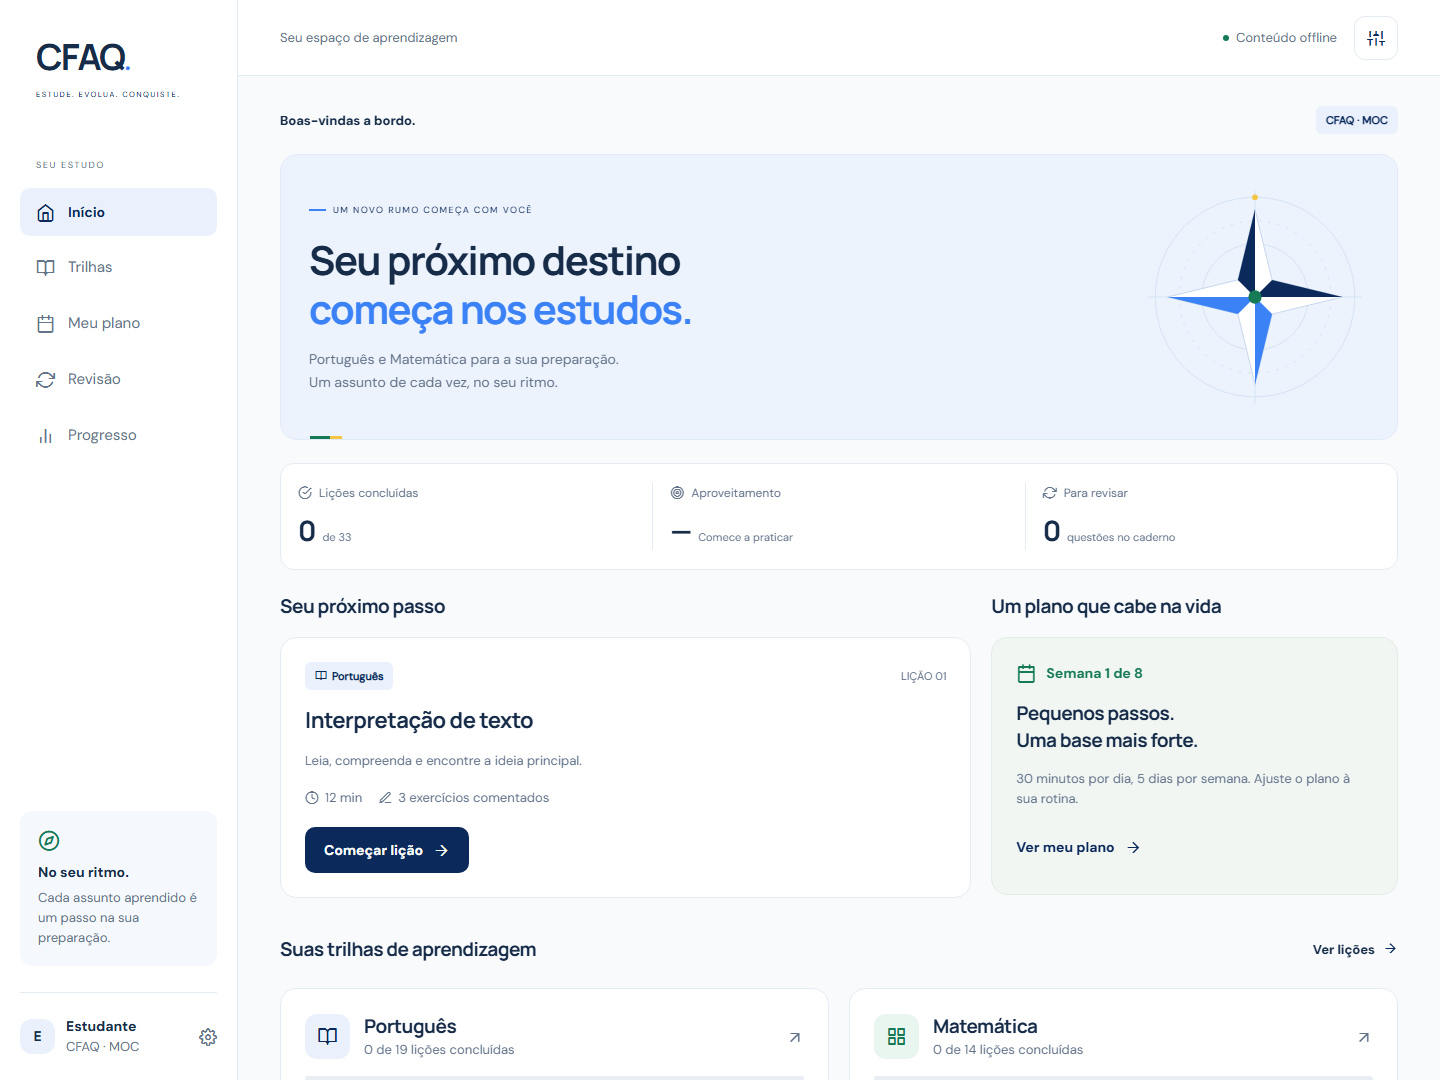
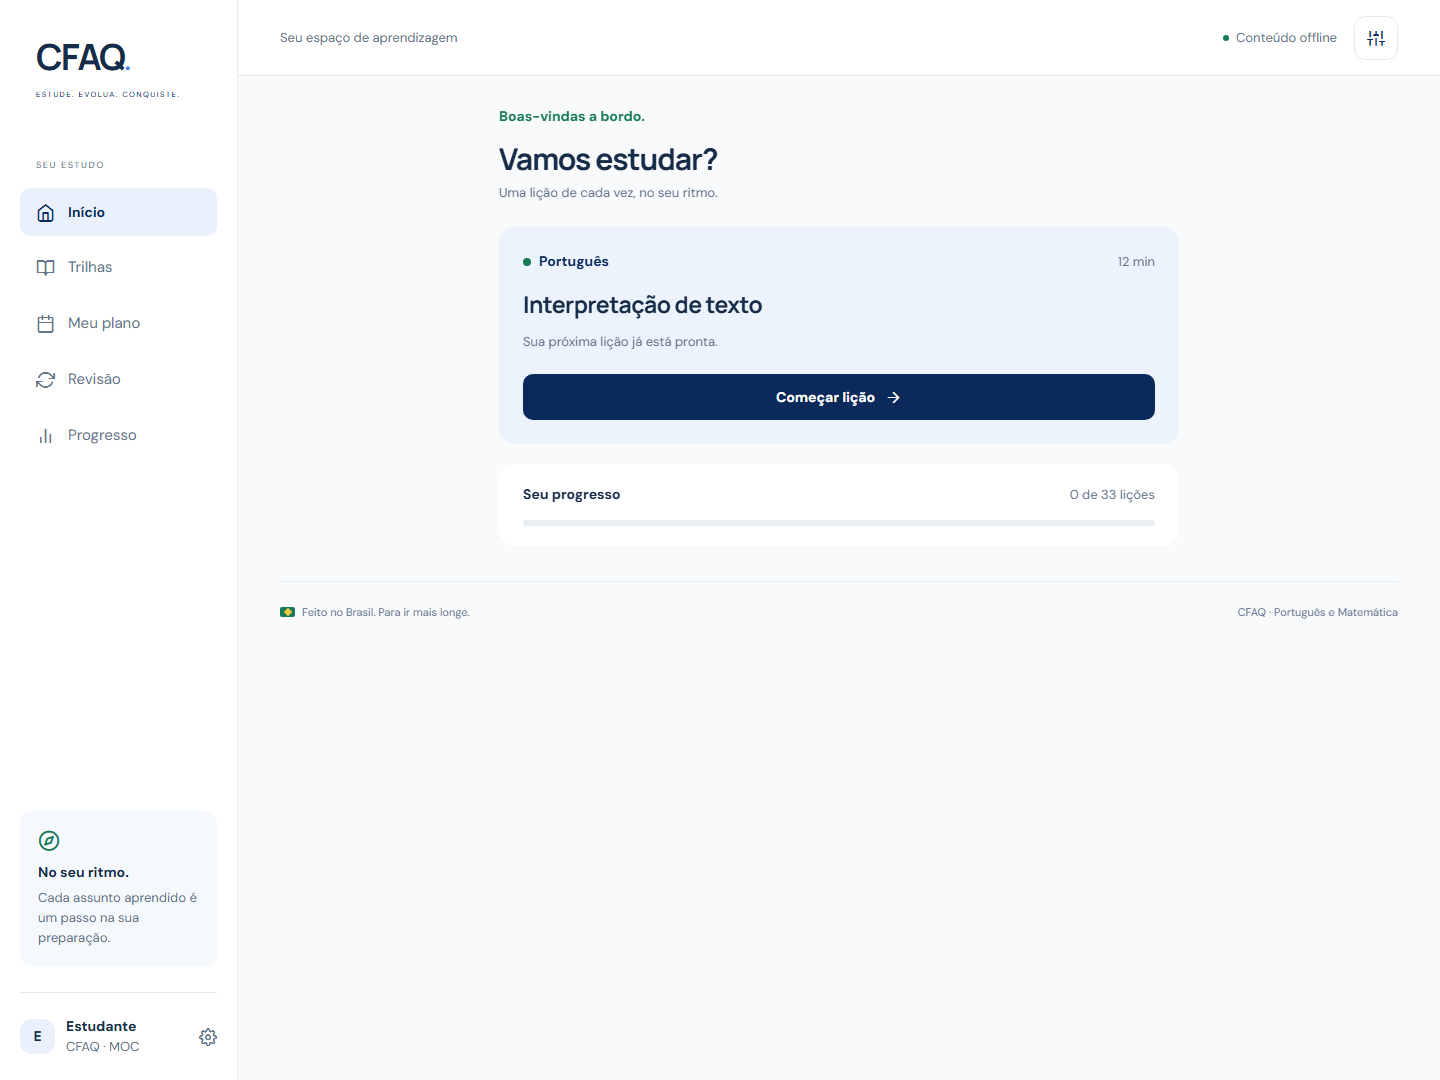
Simplifica inicio com foco na proxima licao

diff --git a/src/app/index.tsx b/src/app/index.tsx
@@ -1,278 +1,88 @@
 import React from 'react';
-import { Pressable, StyleSheet, View, useWindowDimensions } from 'react-native';
+import { StyleSheet, View } from 'react-native';
 import { router } from 'expo-router';
 import { Shell } from '../components/Shell';
-import {
-  Button,
-  Card,
-  colors,
-  Compass,
-  Icon,
-  ProgressBar,
-  SectionTitle,
-  T,
-  Tag,
-} from '../components/ui';
+import { Button, Card, colors, ProgressBar, T } from '../components/ui';
 import { useStudy } from '../context/StudyContext';
-import { subjects, type Subject } from '../data/curriculum';
+import { subjects } from '../data/curriculum';
 import { nextLesson, stats } from '../lib/learning';
 
 export default function Home() {
   const { state } = useStudy();
-  const { width } = useWindowDimensions();
-  const wide = width > 760;
-  const all = stats(state);
   const next = nextLesson(state);
-  const week = next?.week || 8;
+  const progress = stats(state);
+
   return (
     <Shell>
-      <View style={s.greeting}>
-        <T variant="label" style={{ fontSize: 13 }}>
-          {state.settings.name ? 'Olá, ' + state.settings.name + '.' : 'Boas-vindas a bordo.'}
-        </T>
-        <Tag text={'CFAQ · ' + state.settings.course} />
-      </View>
-      <View style={s.hero}>
-        <View style={{ flex: 1, gap: 15, zIndex: 1 }}>
-          <View style={{ flexDirection: 'row', gap: 7, alignItems: 'center' }}>
-            <View style={s.smallLine} />
-            <T variant="small" style={s.eyebrow}>
-              UM NOVO RUMO COMEÇA COM VOCÊ
-            </T>
-          </View>
-          <T variant="display" style={{ fontSize: wide ? 40 : 31, lineHeight: wide ? 49 : 39 }}>
-            Seu próximo destino{'\n'}
-            <T
-              variant="display"
-              style={{ color: colors.blue, fontSize: wide ? 40 : 31, lineHeight: wide ? 49 : 39 }}
-            >
-              começa nos estudos.
-            </T>
+      <View style={s.content}>
+        <View style={s.intro}>
+          <T variant="label" style={s.greeting}>
+            {state.settings.name ? 'Olá, ' + state.settings.name + '.' : 'Boas-vindas a bordo.'}
           </T>
-          <T style={{ maxWidth: 470, color: colors.muted, fontSize: 14, lineHeight: 23 }}>
-            Português e Matemática para a sua preparação.{'\n'}Um assunto de cada vez, no seu ritmo.
+          <T variant="title">Vamos estudar?</T>
+          <T variant="small">Uma lição de cada vez, no seu ritmo.</T>
+        </View>
+
+        <Card style={s.lessonCard}>
+          <View style={s.lessonMeta}>
+            <View style={s.subject}>
+              <View style={s.subjectDot} />
+              <T variant="label" style={{ color: colors.navy }}>
+                {next ? subjects[next.subject].name : 'Lições concluídas'}
+              </T>
+            </View>
+            {next && <T variant="small">{next.minutes} min</T>}
+          </View>
+          <T variant="heading" style={s.lessonTitle}>
+            {next?.title || 'Você concluiu todas as lições!'}
           </T>
-          {!wide && (
-            <Button
-              title={next ? 'Estudar agora' : 'Praticar agora'}
-              icon="arrow-right"
-              onPress={() => router.push(next ? '/licao/' + next.id : '/pratica')}
-              style={{ alignSelf: 'flex-start' }}
-            />
-          )}
-        </View>
-        {wide && (
-          <View style={s.heroArt}>
-            <Compass size={228} />
-          </View>
-        )}
-        <View style={s.heroAccent}>
-          <View style={{ height: 3, width: 20, backgroundColor: colors.green }} />
-          <View style={{ height: 3, width: 12, backgroundColor: colors.yellow }} />
-        </View>
-      </View>
-      <View style={s.metrics}>
-        {[
-          {
-            label: 'Lições concluídas',
-            value: String(all.completed),
-            suffix: 'de ' + all.total,
-            icon: 'check-circle' as const,
-          },
-          {
-            label: 'Aproveitamento',
-            value: all.accuracy === null ? '—' : all.accuracy + '%',
-            suffix: all.answered ? all.answered + ' respostas' : 'Comece a praticar',
-            icon: 'target' as const,
-          },
-          {
-            label: 'Para revisar',
-            value: String(state.mistakes.length),
-            suffix: 'questões no caderno',
-            icon: 'refresh-cw' as const,
-          },
-        ].map((metric) => (
-          <View key={metric.label} style={s.metric}>
-            <View style={{ flexDirection: 'row', alignItems: 'center', gap: 7 }}>
-              {width > 420 && <Icon name={metric.icon} size={14} color={colors.muted} />}
-              <T variant="small" style={{ fontSize: width < 500 ? 10 : 12 }}>
-                {metric.label}
-              </T>
-            </View>
-            <View
-              style={{
-                flexDirection: 'row',
-                flexWrap: 'wrap',
-                alignItems: 'baseline',
-                gap: 7,
-                marginTop: 8,
-              }}
-            >
-              <T variant="title" style={{ fontSize: 28 }}>
-                {metric.value}
-              </T>
-              <T variant="small" style={{ fontSize: width < 500 ? 10 : 11 }}>
-                {metric.suffix}
-              </T>
-            </View>
-          </View>
-        ))}
-      </View>
-      <View style={[s.columns, !wide && { flexDirection: 'column' }]}>
-        <View style={{ flex: wide ? 1.7 : undefined, minWidth: 0 }}>
-          <SectionTitle title={next ? 'Seu próximo passo' : 'Continue aprendendo'} />
-          <Card style={{ gap: 17 }}>
-            <View
-              style={{
-                flexDirection: 'row',
-                justifyContent: 'space-between',
-                alignItems: 'center',
-              }}
-            >
-              <Tag
-                text={next ? subjects[next.subject].name : 'Trilhas concluídas'}
-                icon="book-open"
-              />
-              <T variant="small" style={{ fontSize: 11 }}>
-                {next ? 'LIÇÃO ' + next.id.slice(-2) : 'REVISÃO'}
-              </T>
-            </View>
-            <T variant="heading" style={{ fontSize: 22 }}>
-              {next?.title || 'Hora de fortalecer o que aprendeu'}
-            </T>
+          <T variant="small">
+            {next
+              ? 'Sua próxima lição já está pronta.'
+              : 'Continue praticando para fortalecer o que aprendeu.'}
+          </T>
+          <Button
+            title={next ? 'Começar lição' : 'Praticar agora'}
+            icon="arrow-right"
+            onPress={() => router.push(next ? '/licao/' + next.id : '/pratica')}
+            style={s.primaryAction}
+          />
+        </Card>
+
+        <Card style={s.progressCard}>
+          <View style={s.progressHeading}>
+            <T variant="label">Seu progresso</T>
             <T variant="small">
-              {next?.subtitle || 'Revise seus erros ou pratique assuntos das duas disciplinas.'}
+              {progress.completed} de {progress.total} lições
             </T>
-            <View style={{ flexDirection: 'row', gap: 16, flexWrap: 'wrap' }}>
-              <View style={s.inline}>
-                <Icon name="clock" size={14} color={colors.muted} />
-                <T variant="small">{next ? next.minutes + ' min' : 'No seu ritmo'}</T>
-              </View>
-              <View style={s.inline}>
-                <Icon name="edit-3" size={14} color={colors.muted} />
-                <T variant="small">
-                  {next ? next.questions.length + ' exercícios comentados' : 'Treino misto'}
-                </T>
-              </View>
-            </View>
-            <Button
-              title={next ? 'Começar lição' : 'Praticar agora'}
-              icon="arrow-right"
-              onPress={() => router.push(next ? '/licao/' + next.id : '/pratica')}
-              style={{ alignSelf: wide ? 'flex-start' : 'stretch', marginTop: 2 }}
-            />
-          </Card>
-        </View>
-        <View style={{ flex: wide ? 1 : undefined, minWidth: 0 }}>
-          <SectionTitle title="Um plano que cabe na vida" />
-          <Card style={{ backgroundColor: '#F1F6F3', gap: 15 }}>
-            <View style={{ flexDirection: 'row', alignItems: 'center', gap: 10 }}>
-              <Icon name="calendar" color={colors.green} />
-              <T variant="label" style={{ color: colors.green }}>
-                Semana {week} de 8
-              </T>
-            </View>
-            <T variant="heading">Pequenos passos.{'\n'}Uma base mais forte.</T>
-            <T variant="small">
-              {state.settings.minutes} minutos por dia, {state.settings.days} dias por semana.
-              Ajuste o plano à sua rotina.
-            </T>
-            <Button
-              title="Ver meu plano"
-              tone="ghost"
-              icon="arrow-right"
-              onPress={() => router.push('/plano')}
-              style={{ paddingHorizontal: 0, justifyContent: 'flex-start' }}
-            />
-          </Card>
-        </View>
-      </View>
-      <View style={{ marginTop: 29 }}>
-        <SectionTitle
-          title="Suas trilhas de aprendizagem"
-          action={{ label: 'Ver lições', onPress: () => router.push('/trilhas') }}
-        />
-        <View style={[s.columns, !wide && { flexDirection: 'column' }]}>
-          {(['portugues', 'matematica'] as Subject[]).map((subject) => {
-            const info = subjects[subject];
-            const progress = stats(state, subject);
-            return (
-              <Pressable
-                key={subject}
-                accessibilityRole="button"
-                accessibilityLabel={'Abrir trilha de ' + info.name}
-                onPress={() => router.push({ pathname: '/trilhas', params: { materia: subject } })}
-                style={({ pressed }) => [{ flex: wide ? 1 : undefined, opacity: pressed ? 0.8 : 1 }]}
-              >
-                <Card style={{ gap: 16 }}>
-                  <View style={{ flexDirection: 'row', alignItems: 'center', gap: 14 }}>
-                    <View style={[s.subjectIcon, { backgroundColor: info.tint }]}>
-                      <Icon name={info.icon} color={info.color} />
-                    </View>
-                    <View style={{ flex: 1 }}>
-                      <T variant="heading">{info.name}</T>
-                      <T variant="small">
-                        {progress.completed} de {progress.total} lições concluídas
-                      </T>
-                    </View>
-                    <Icon name="arrow-up-right" color={colors.muted} size={18} />
-                  </View>
-                  <ProgressBar
-                    value={progress.percent}
-                    color={info.color}
-                    label={'Progresso em ' + info.name}
-                  />
-                </Card>
-              </Pressable>
-            );
-          })}
-        </View>
-      </View>
-      <View style={s.lastNote}>
-        <Icon name="anchor" size={15} color={colors.muted} />
-        <T variant="small" style={{ flex: 1, fontSize: 12 }}>
-          Aprender é construir uma base. Você pode repetir qualquer lição, quantas vezes precisar.
-        </T>
+          </View>
+          <ProgressBar value={progress.percent} label="Progresso total das lições" />
+        </Card>
       </View>
     </Shell>
   );
 }
+
 const s = StyleSheet.create({
-  greeting: {
+  content: { width: '100%', maxWidth: 680, alignSelf: 'center', gap: 20 },
+  intro: { gap: 5, marginBottom: 4 },
+  greeting: { color: colors.green, marginBottom: 7 },
+  lessonCard: { backgroundColor: '#EDF3FC', gap: 12 },
+  lessonMeta: {
     flexDirection: 'row',
+    alignItems: 'center',
     justifyContent: 'space-between',
-    alignItems: 'center',
-    marginBottom: 20,
+    gap: 12,
   },
-  hero: {
-    padding: 28,
-    borderRadius: 17,
-    backgroundColor: '#EDF3FC',
-    minHeight: 233,
+  subject: { flexDirection: 'row', alignItems: 'center', gap: 8, flexShrink: 1 },
+  subjectDot: { width: 8, height: 8, borderRadius: 4, backgroundColor: colors.green },
+  lessonTitle: { fontSize: 23, lineHeight: 31, marginTop: 5 },
+  primaryAction: { alignSelf: 'stretch', marginTop: 10 },
+  progressCard: { gap: 15, paddingVertical: 20 },
+  progressHeading: {
     flexDirection: 'row',
     alignItems: 'center',
-    overflow: 'hidden',
+    justifyContent: 'space-between',
+    gap: 12,
   },
-  eyebrow: { fontSize: 9, color: colors.navy, letterSpacing: 1.4 },
-  smallLine: { backgroundColor: colors.blue, width: 17, height: 2 },
-  heroArt: { marginLeft: 15, marginRight: 0 },
-  heroAccent: { position: 'absolute', bottom: 0, left: 29, flexDirection: 'row' },
-  metrics: {
-    marginVertical: 23,
-    backgroundColor: colors.white,
-    borderRadius: 14,
-    flexDirection: 'row',
-    paddingVertical: 19,
-  },
-  metric: { flex: 1, paddingHorizontal: 17 },
-  columns: { flexDirection: 'row', gap: 20 },
-  inline: { flexDirection: 'row', alignItems: 'center', gap: 6 },
-  subjectIcon: {
-    height: 45,
-    width: 45,
-    borderRadius: 12,
-    alignItems: 'center',
-    justifyContent: 'center',
-  },
-  lastNote: { flexDirection: 'row', alignItems: 'center', gap: 9, marginTop: 22 },
 });

diff --git a/docs/VALIDACAO.md b/docs/VALIDACAO.md
@@ -18,6 +18,8 @@ Data: **5 de outubro de 2026**. Primeira versão **1.0.0**.
 
 Os cenários de interface verificam uma lição com erro e acertos, conclusão, restauração após recarregamento, recuperação na revisão, busca sem acento, troca de disciplina, persistência de preferências, cancelamento de exclusão, treino de 20 questões, saída de sessão e links inválidos.
 
+Na revisão da tela inicial, a apresentação foi reduzida à próxima lição e ao progresso geral. O cenário de início passou em desktop e viewport móvel, sem erros de execução nem largura horizontal excedente. As capturas em \`docs/images/inicio-desktop.png\` e \`docs/images/inicio-mobile.png\` foram atualizadas.
+
 Os testes de motor verificam progresso inicialmente vazio, regras do caderno de erros, respostas inválidas, conclusões idempotentes, repetição de lição, separação de disciplinas, amostragem sem repetição, limites do banco, serialização e sanitização. Parte dos gabaritos matemáticos também foi comparada com cálculos independentes.
 
 A integração contínua também foi aprovada em uma instalação limpa no GitHub: [execução registrada](https://github.com/luilma-dev/cfaq/actions/runs/37312640445). Ela repetiu tipos, lint, testes, Expo Doctor, exportação das três plataformas e os 12 cenários de interface.

diff --git a/docs/PROPOSTA.md b/docs/PROPOSTA.md
@@ -16,6 +16,7 @@ O projeto foi solicitado como um aplicativo brasileiro em React Native com Expo 
 - Sem vidas, ranking, moeda virtual, sequência punitiva, anúncios ou notificações de pressão.
 - Progresso real, iniciado em zero. Nenhum resultado representa promessa de aprovação.
 - Dados pessoais e resultados ficam no aparelho nesta versão.
+- A tela inicial apresenta uma única ação principal: continuar a próxima lição. O progresso aparece em resumo; trilhas, plano e revisão ficam na navegação.
 
 ## Escopo da primeira versão
 
